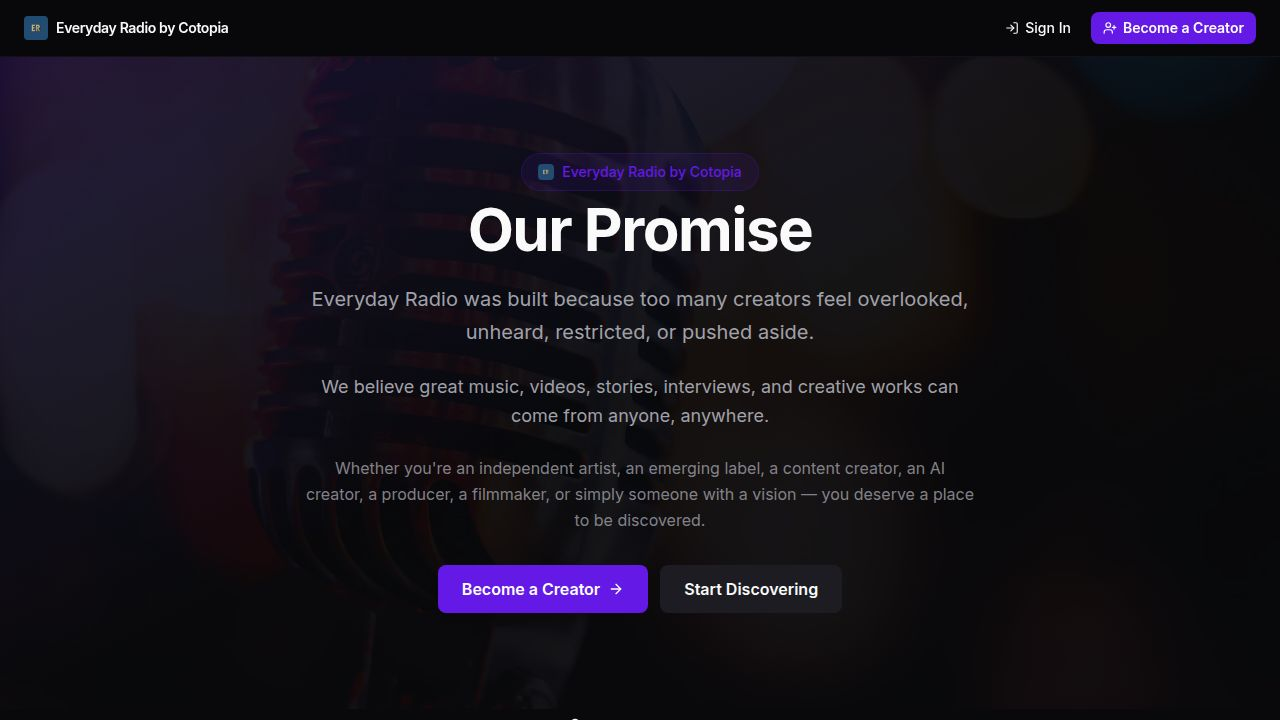
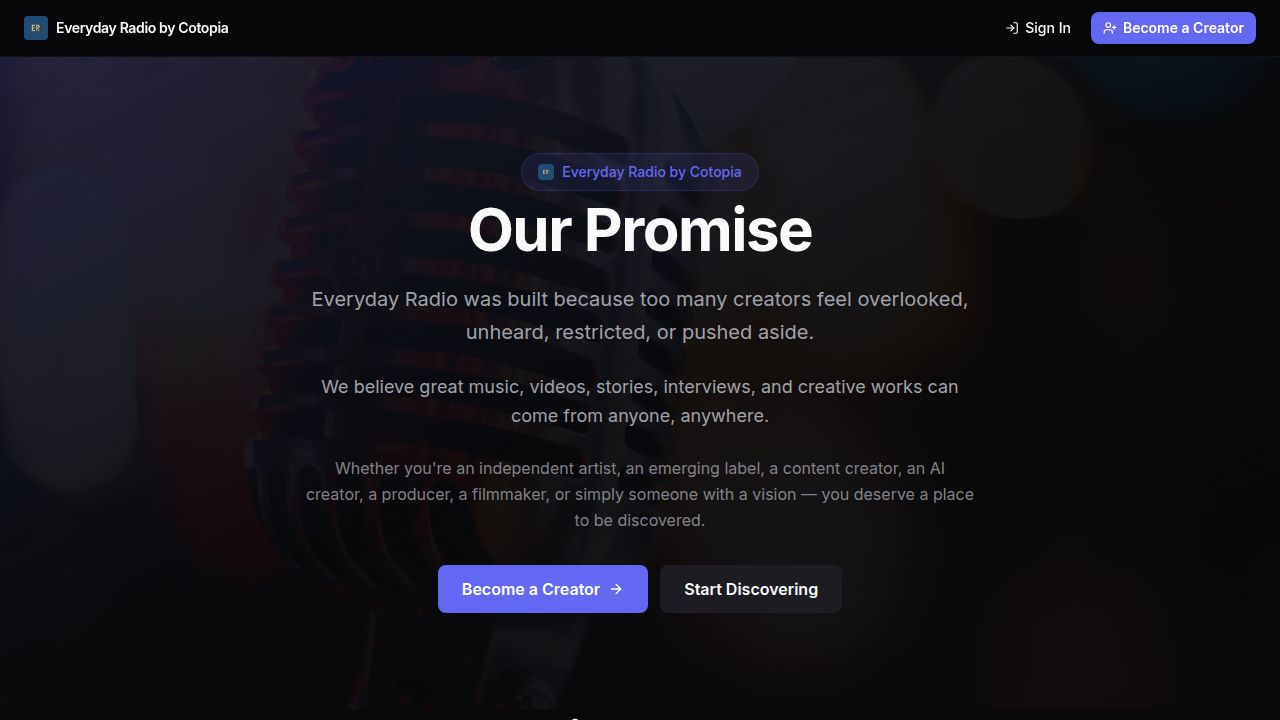
feat: show scan results live — poll while pending + scan history panel
Problem: clicking "Request Detection Scan" showed the status badge change
to "Scan Complete" but the actual results (risk %, confidence, indicators)
never appeared. Two causes:

1. Timing: the one-shot 8-second setTimeout re-fetch fired long before
   the Hive background scan finished (can take 30–120 s). The card got
   "scan_pending" on the refetch, then nothing else ever fired.

2. No visibility: there was no way to see what the scan actually returned
   — score, error message, or why it showed "Detection unavailable".

Fix 1 — polling (song-detail.tsx, video-detail.tsx):
  useGetSong / useGetVideo now accept `refetchInterval` as a function
  that returns 5000 while aiReviewStatus === "scan_pending", false
  otherwise. The query auto-polls every 5 s until the scan resolves,
  then stops. Replaced the dumb 8 s setTimeout with an immediate
  invalidate + scan-history invalidate.

Fix 2 — scan history panel (ai-review-card.tsx):
  AiReviewCard now fetches /api/admin/ai-scans/:contentType/:contentId
  via useQuery (also polls every 5 s while pending). Shows last 5 scans:
  - Status (complete / failed / unavailable) with timestamp
  - AI likelihood %, risk level, confidence level (if complete)
  - Detection indicator badges (if any)
  - Error message (if failed) or "no result" note (if unavailable)
  The "Request Detection Scan" button disables and shows "Scanning…"
  while a scan is in-flight.

Also: frontend typecheck clean; no API changes needed.

Changed region(s): [[0.3438, 0.7639, 0.5312, 0.8556], [0.8438, 0.0, 1.0, 0.0611], [0.4375, 0.2139, 0.5938, 0.2444]]

diff --git a/artifacts/cotopia/src/components/ai-review-card.tsx b/artifacts/cotopia/src/components/ai-review-card.tsx
@@ -13,7 +13,8 @@
  * and platform policy. Never describe results as conclusive proof.
  */
 import { useState } from "react";
-import { AlertTriangle, Lock, LockOpen, ShieldCheck, ShieldAlert, ChevronDown, ChevronUp, Scan } from "lucide-react";
+import { useQuery } from "@tanstack/react-query";
+import { AlertTriangle, Lock, LockOpen, ShieldCheck, ShieldAlert, ChevronDown, ChevronUp, Scan, History } from "lucide-react";
 import { Button } from "@/components/ui/button";
 import { Badge } from "@/components/ui/badge";
 import { Textarea } from "@/components/ui/textarea";
@@ -154,6 +155,19 @@ const MOD_ACTIONS = [
   { value: "escalate", label: "Escalate to Admin" },
 ] as const;
 
+interface ScanRecord {
+  id: number;
+  scanStatus: string;
+  provider: string;
+  aiLikelihoodPercent: number | null;
+  confidenceLevel: string | null;
+  riskLevel: string | null;
+  detectionIndicators: string[] | null;
+  errorMessage: string | null;
+  scannedAt: string | null;
+  createdAt: string;
+}
+
 export function AiReviewCard({
   contentType,
   contentId,
@@ -171,6 +185,22 @@ export function AiReviewCard({
   const [selectedAction, setSelectedAction] = useState<string>("");
   const [selectedTag, setSelectedTag] = useState<string>("");
   const [reason, setReason] = useState("");
+
+  const { data: scanHistory } = useQuery<ScanRecord[]>({
+    queryKey: ["ai-scans", contentType, contentId],
+    queryFn: async () => {
+      const token = localStorage.getItem("cotopia_token");
+      const res = await fetch(`/api/admin/ai-scans/${contentType}/${contentId}`, {
+        headers: token ? { Authorization: `Bearer ${token}` } : {},
+      });
+      if (!res.ok) return [];
+      return res.json();
+    },
+    enabled: (isAdmin || isModerator) && !!contentId,
+    // Keep polling while a scan is in-flight so history updates automatically.
+    refetchInterval: data.aiReviewStatus === "scan_pending" ? 5000 : false,
+    staleTime: 10_000,
+  });
 
   const hasScore = typeof data.aiEstimatePercent === "number" && data.aiEstimatePercent !== null;
 
@@ -320,10 +350,78 @@ export function AiReviewCard({
               size="sm"
               className="gap-2 text-xs"
               onClick={onScanRequest}
+              disabled={data.aiReviewStatus === "scan_pending"}
             >
               <Scan className="w-3.5 h-3.5" />
-              Request Detection Scan
+              {data.aiReviewStatus === "scan_pending" ? "Scanning…" : "Request Detection Scan"}
             </Button>
+          )}
+
+          {/* Scan history */}
+          {(isAdmin || isModerator) && scanHistory && scanHistory.length > 0 && (
+            <div className="space-y-2">
+              <div className="flex items-center gap-1.5 text-[10px] text-muted-foreground uppercase tracking-wider">
+                <History className="w-3 h-3" />
+                Scan History
+              </div>
+              <div className="space-y-1.5">
+                {scanHistory.slice(0, 5).map((scan) => {
+                  const statusColor =
+                    scan.scanStatus === "complete" ? "text-emerald-600 dark:text-emerald-400" :
+                    scan.scanStatus === "failed" ? "text-red-500" :
+                    "text-muted-foreground";
+                  const ts = scan.scannedAt ?? scan.createdAt;
+                  const dateStr = ts ? new Date(ts).toLocaleString() : "—";
+                  return (
+                    <div
+                      key={scan.id}
+                      className="rounded-lg border border-border bg-muted/30 px-3 py-2 text-xs space-y-0.5"
+                    >
+                      <div className="flex items-center justify-between gap-2">
+                        <span className={cn("font-medium capitalize", statusColor)}>
+                          {scan.scanStatus}
+                        </span>
+                        <span className="text-[10px] text-muted-foreground tabular-nums">{dateStr}</span>
+                      </div>
+                      {scan.scanStatus === "complete" && scan.aiLikelihoodPercent !== null && (
+                        <div className="flex items-center gap-3 text-[11px]">
+                          <span>
+                            AI likelihood: <strong className="tabular-nums">{scan.aiLikelihoodPercent}%</strong>
+                          </span>
+                          {scan.riskLevel && (
+                            <span className="capitalize text-muted-foreground">
+                              Risk: <strong>{scan.riskLevel}</strong>
+                            </span>
+                          )}
+                          {scan.confidenceLevel && scan.confidenceLevel !== "unavailable" && (
+                            <span className="capitalize text-muted-foreground">
+                              Confidence: <strong>{scan.confidenceLevel}</strong>
+                            </span>
+                          )}
+                        </div>
+                      )}
+                      {scan.detectionIndicators && scan.detectionIndicators.length > 0 && (
+                        <div className="flex flex-wrap gap-1 pt-0.5">
+                          {scan.detectionIndicators.map((ind) => (
+                            <Badge key={ind} variant="secondary" className="text-[9px] px-1.5 py-0">{ind}</Badge>
+                          ))}
+                        </div>
+                      )}
+                      {scan.scanStatus === "failed" && scan.errorMessage && (
+                        <div className="text-[10px] text-red-500 truncate" title={scan.errorMessage}>
+                          Error: {scan.errorMessage}
+                        </div>
+                      )}
+                      {scan.scanStatus === "unavailable" && (
+                        <div className="text-[10px] text-muted-foreground">
+                          Provider returned no result — file may be too small or key unconfigured.
+                        </div>
+                      )}
+                    </div>
+                  );
+                })}
+              </div>
+            </div>
           )}
 
           {/* Admin / moderator action panel */}

diff --git a/artifacts/cotopia/src/pages/song-detail.tsx b/artifacts/cotopia/src/pages/song-detail.tsx
@@ -53,7 +53,15 @@ export default function SongDetail() {
   const { toast } = useToast();
 
   const { data: song, isLoading } = useGetSong(songId, {
-    query: { enabled: !!songId, queryKey: getGetSongQueryKey(songId) }
+    query: {
+      enabled: !!songId,
+      queryKey: getGetSongQueryKey(songId),
+      // Poll every 5 s while a background scan is in-flight; stop once resolved.
+      refetchInterval: (q) => {
+        const status = (q.state.data as any)?.aiReviewStatus;
+        return status === "scan_pending" ? 5000 : false;
+      },
+    }
   });
 
   const { data: songSupportStatus } = useGetCreatorSupportStatus(
@@ -672,8 +680,9 @@ export default function SongDetail() {
                   toast({ variant: "destructive", title: "Scan request failed", description: body.error ?? `Server returned ${res.status}` });
                   return;
                 }
-                toast({ title: "Scan queued", description: "Results will appear once the scan completes." });
-                setTimeout(() => queryClient.invalidateQueries({ queryKey: getGetSongQueryKey(songId) }), 8000);
+                toast({ title: "Scan queued", description: "Results will appear automatically once the scan completes." });
+                queryClient.invalidateQueries({ queryKey: getGetSongQueryKey(songId) });
+                queryClient.invalidateQueries({ queryKey: ["ai-scans", "song", songId] });
               } catch {
                 toast({ variant: "destructive", title: "Scan request failed", description: "Network error — please try again." });
               }

diff --git a/artifacts/cotopia/src/pages/video-detail.tsx b/artifacts/cotopia/src/pages/video-detail.tsx
@@ -53,7 +53,15 @@ export default function VideoDetail() {
   const { addToQueue } = usePlayer();
 
   const { data: video, isLoading } = useGetVideo(videoId, {
-    query: { enabled: !!videoId, queryKey: getGetVideoQueryKey(videoId) }
+    query: {
+      enabled: !!videoId,
+      queryKey: getGetVideoQueryKey(videoId),
+      // Poll every 5 s while a background scan is in-flight; stop once resolved.
+      refetchInterval: (q) => {
+        const status = (q.state.data as any)?.aiReviewStatus;
+        return status === "scan_pending" ? 5000 : false;
+      },
+    }
   });
 
   const { data: videoSupportStatus } = useGetCreatorSupportStatus(
@@ -991,8 +999,9 @@ export default function VideoDetail() {
                   toast({ variant: "destructive", title: "Scan request failed", description: body.error ?? `Server returned ${res.status}` });
                   return;
                 }
-                toast({ title: "Scan queued", description: "Results will appear once the scan completes." });
-                setTimeout(() => queryClient.invalidateQueries({ queryKey: getGetVideoQueryKey(videoId) }), 8000);
+                toast({ title: "Scan queued", description: "Results will appear automatically once the scan completes." });
+                queryClient.invalidateQueries({ queryKey: getGetVideoQueryKey(videoId) });
+                queryClient.invalidateQueries({ queryKey: ["ai-scans", "video", videoId] });
               } catch {
                 toast({ variant: "destructive", title: "Scan request failed", description: "Network error — please try again." });
               }